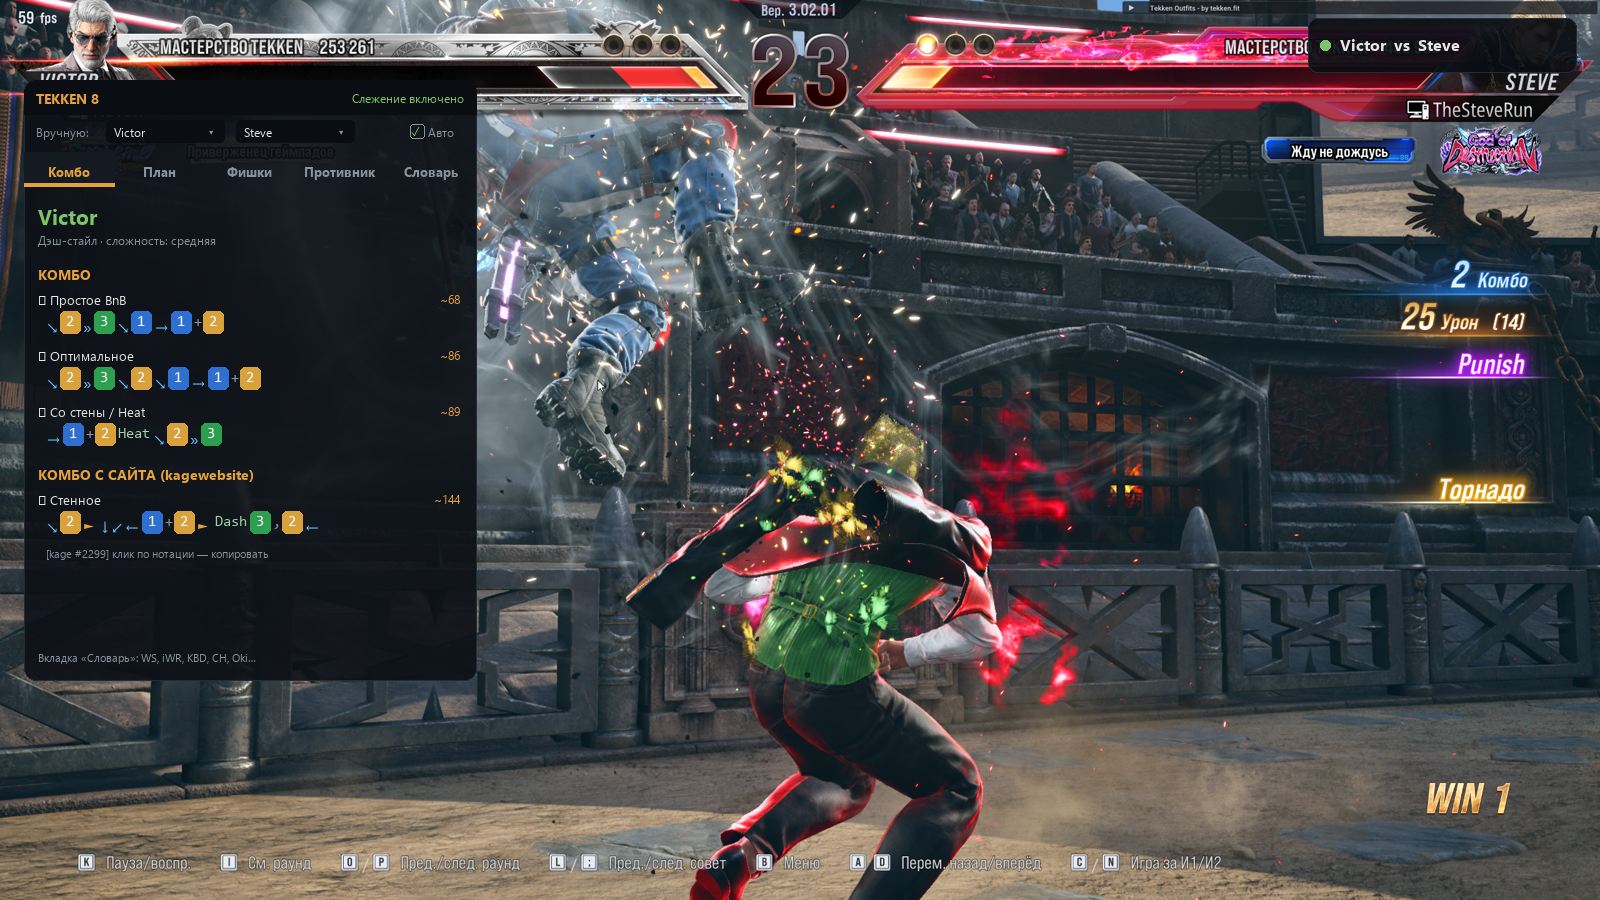
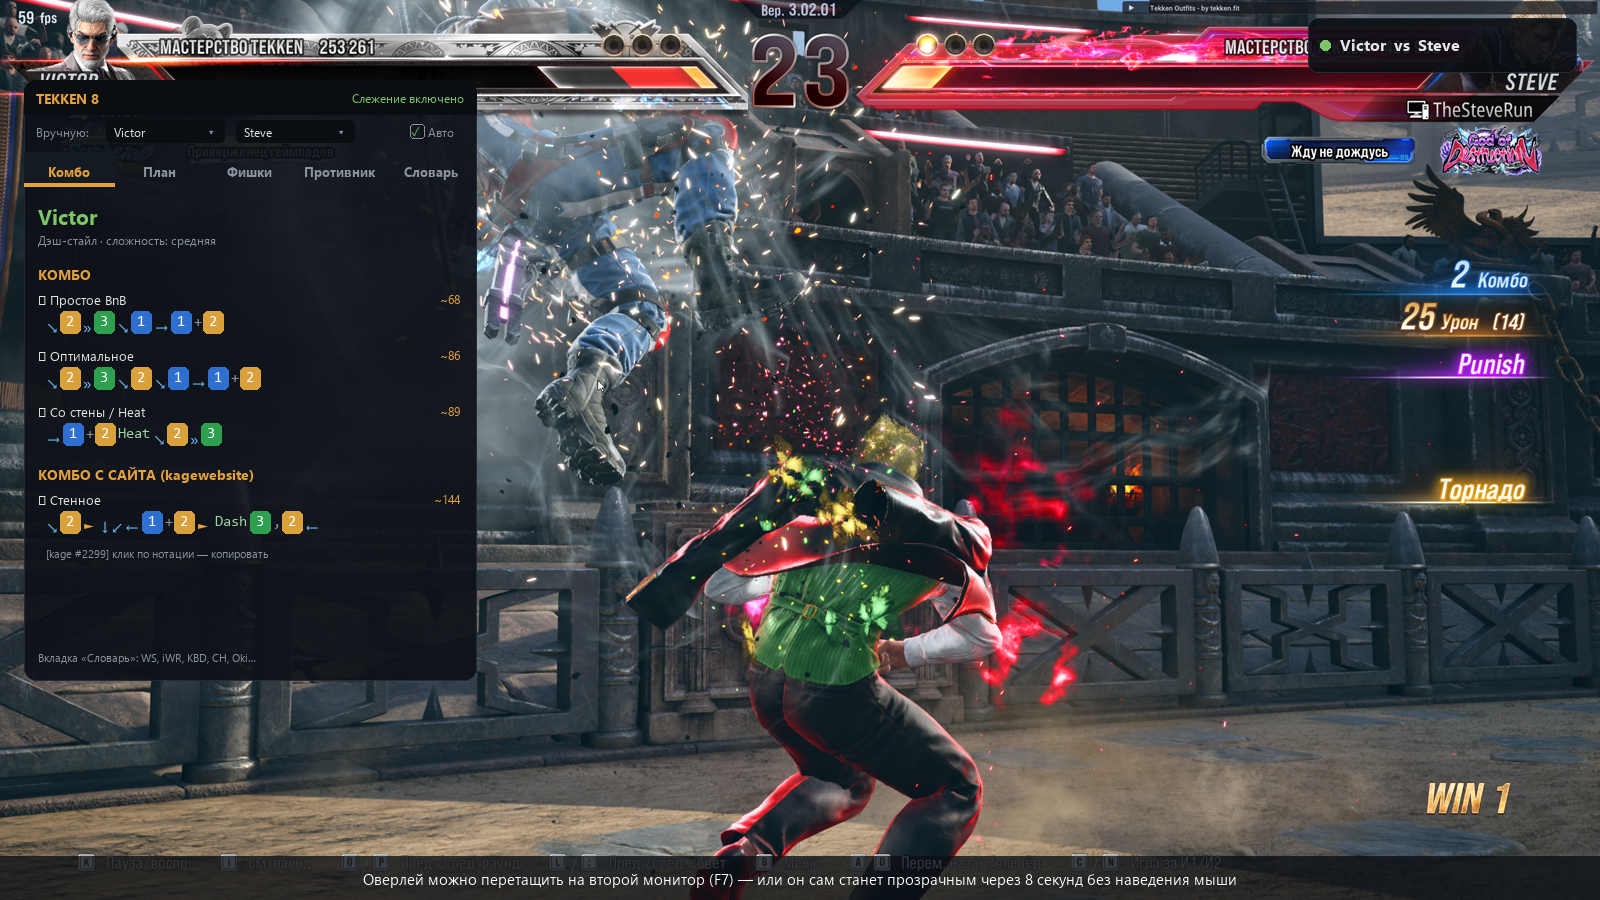
feat: сборка exe, CI-workflows, аннотация демо, упрощённая установка

Changed region(s): [[0.0, 0.9333, 1.0, 1.0]]

diff --git a/tools/make_demo.py b/tools/make_demo.py
@@ -144,6 +144,18 @@ def main() -> None:
     # glossary hint (bottom right of panel)
     d.text((px + 14, py + ph - 30), "Вкладка «Словарь»: WS, iWR, KBD, CH, Oki…", font=seg(11), fill=DIM)
 
+    # ---------- bottom caption strip ----------
+    strip_y, strip_h = 856, 44
+    d.rectangle([0, strip_y, img.width, strip_y + strip_h], fill=(10, 14, 19, 200))
+    caption = "Оверлей можно перетащить на второй монитор (F7) — или он сам станет прозрачным через 8 секунд без наведения мыши"
+    d.text(
+        (img.width // 2, strip_y + strip_h // 2),
+        caption,
+        font=seg(15),
+        fill=(255, 255, 255, 255),
+        anchor="mm",
+    )
+
     out = Image.alpha_composite(img, overlay).convert("RGB")
     OUT.parent.mkdir(parents=True, exist_ok=True)
     out.save(OUT)

diff --git a/tekken_assistant/data/kage.py b/tekken_assistant/data/kage.py
@@ -1,6 +1,7 @@
 from __future__ import annotations
 
 import json
+import sys
 import time
 from pathlib import Path
 
@@ -10,7 +11,15 @@ from bs4 import BeautifulSoup
 from tekken_assistant.models import Combo
 
 BASE_URL = "https://tekken8combo.kagewebsite.com"
-CACHE_DIR = Path(__file__).resolve().parent / "cache"
+
+
+def _cache_dir() -> Path:
+    if getattr(sys, "frozen", False):
+        return Path(sys.executable).resolve().parent / "data_cache"
+    return Path(__file__).resolve().parent / "cache"
+
+
+CACHE_DIR = _cache_dir()
 CACHE_TTL = 24 * 3600.0
 REQUEST_TIMEOUT = 12.0
 

diff --git a/tekken_assistant/data/loader.py b/tekken_assistant/data/loader.py
@@ -1,11 +1,19 @@
 from __future__ import annotations
 
 import json
+import sys
 from pathlib import Path
 
 from tekken_assistant.models import Character
 
-CHARACTERS_DIR = Path(__file__).resolve().parent / "characters"
+
+def _data_root() -> Path:
+    if getattr(sys, "frozen", False):
+        return Path(getattr(sys, "_MEIPASS", ".")) / "tekken_assistant" / "data"
+    return Path(__file__).resolve().parent
+
+
+CHARACTERS_DIR = _data_root() / "characters"
 
 
 def load_characters(directory: Path = CHARACTERS_DIR) -> dict[str, Character]:

diff --git a/tekken_assistant/config.py b/tekken_assistant/config.py
@@ -1,10 +1,18 @@
 from __future__ import annotations
 
 import json
+import sys
 from dataclasses import asdict, dataclass, fields, replace
 from pathlib import Path
 
-CONFIG_PATH = Path(__file__).resolve().parent.parent / "config.json"
+
+def app_dir() -> Path:
+    if getattr(sys, "frozen", False):
+        return Path(sys.executable).resolve().parent
+    return Path(__file__).resolve().parent.parent
+
+
+CONFIG_PATH = app_dir() / "config.json"
 
 
 @dataclass(frozen=True)

diff --git a/README.md b/README.md
@@ -4,6 +4,8 @@
 
 ![Демо](assets/demo.png)
 
+> Панель можно перетащить на второй монитор (режим `F7` → «2-й монитор») — или она сама станет прозрачной через 8 секунд без наведения мыши.
+
 ## Возможности
 
 - **Автоопределение персонажей** — скриншот + OCR (Tesseract) читают имена с HUD игры, 42 персонажа.
@@ -16,15 +18,27 @@
 
 ## Установка (Windows)
 
+### Вариант 1 — готовый exe (проще всего)
+
+1. Скачайте `Tekken8Assistant.exe` со страницы [Releases](https://github.com/Hainox/tekken8-assistant/releases) и положите в любую папку — Python не нужен.
+2. Для распознавания персонажей установите Tesseract-OCR (один раз):
+
+```powershell
+winget install UB-Mannheim.TesseractOCR
+```
+
+3. Запустите `Tekken8Assistant.exe`.
+
+### Вариант 2 — из исходников
+
 1. Установите [Python 3.11+](https://www.python.org/downloads/) (при установке отметьте *Add to PATH*).
-2. Установите [Tesseract-OCR](https://github.com/UB-Mannheim/tesseract/wiki) (по умолчанию в `C:\Program Files\Tesseract-OCR`).
-3. Скачайте репозиторий и в его папке выполните:
+2. Скачайте репозиторий и в его папке выполните:
 
 ```powershell
 powershell -ExecutionPolicy Bypass -File install.ps1
 ```
 
-Скрипт установит зависимости, проверит Tesseract и создаст ярлык **Tekken 8 Assistant** на рабочем столе. С ключом `-WithAutostart` дополнительно настроит автозапуск вместе с игрой:
+Скрипт установит зависимости, при необходимости сам поставит Tesseract через winget и создаст ярлык **Tekken 8 Assistant** на рабочем столе. С ключом `-WithAutostart` дополнительно настроит автозапуск вместе с игрой:
 
 ```powershell
 powershell -ExecutionPolicy Bypass -File install.ps1 -WithAutostart
